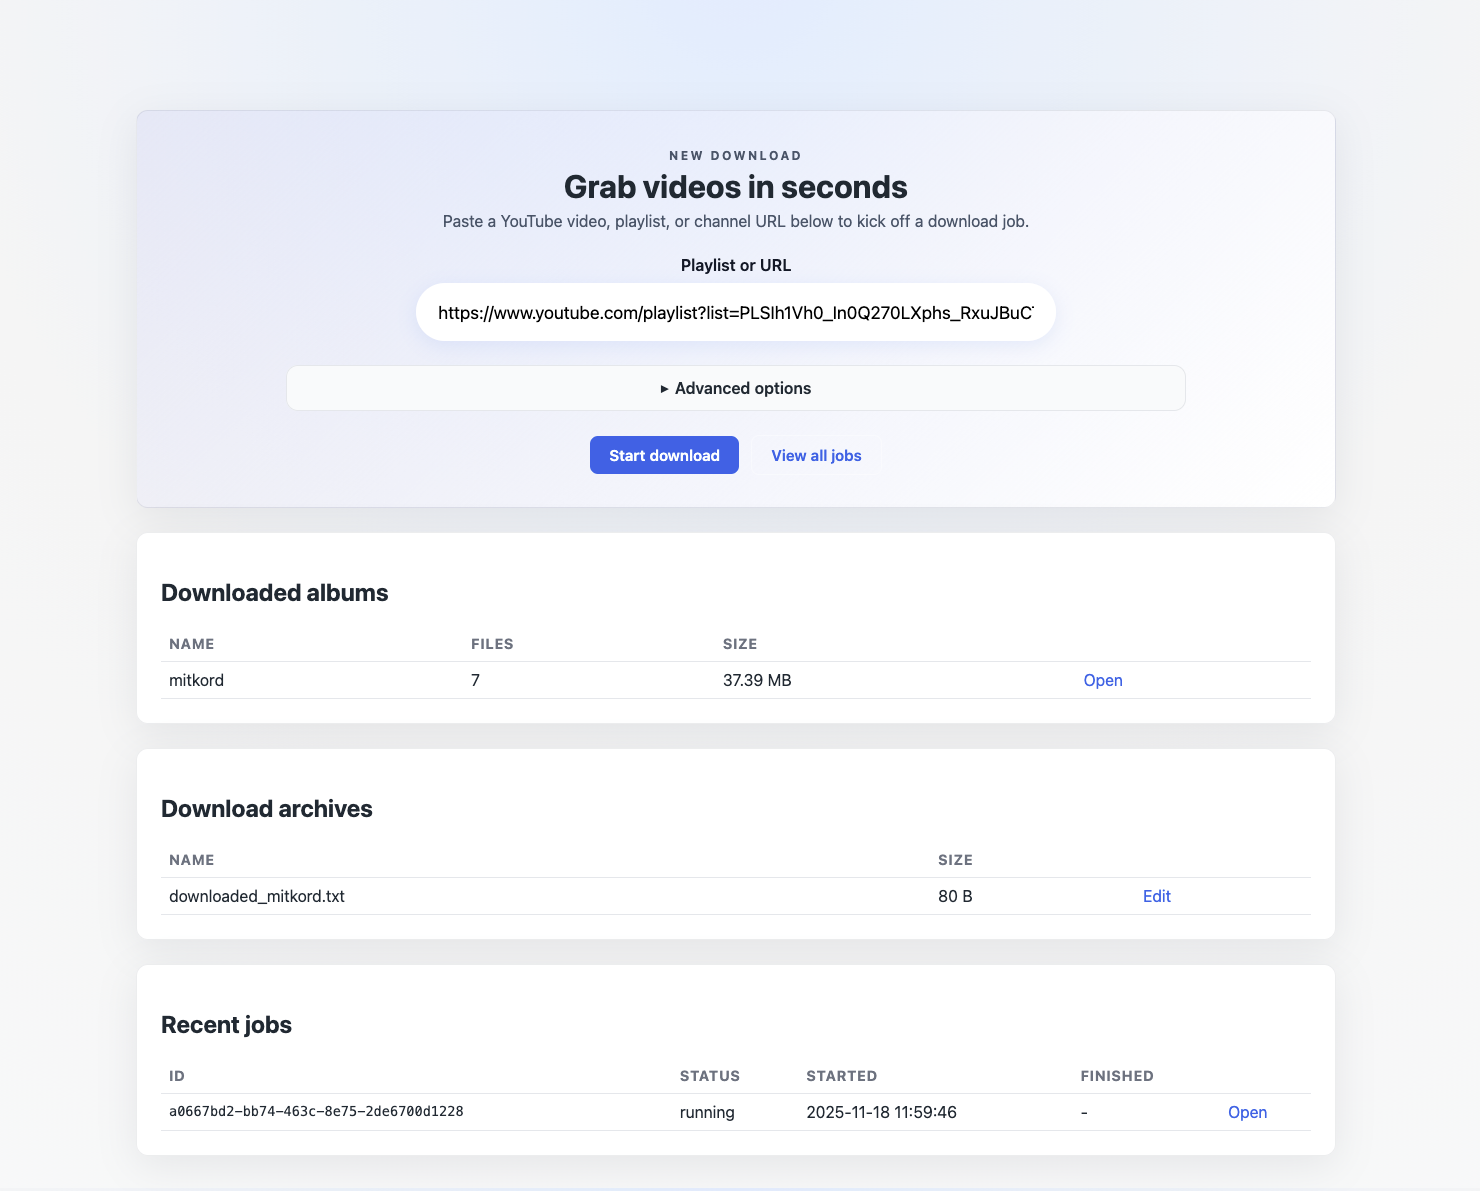
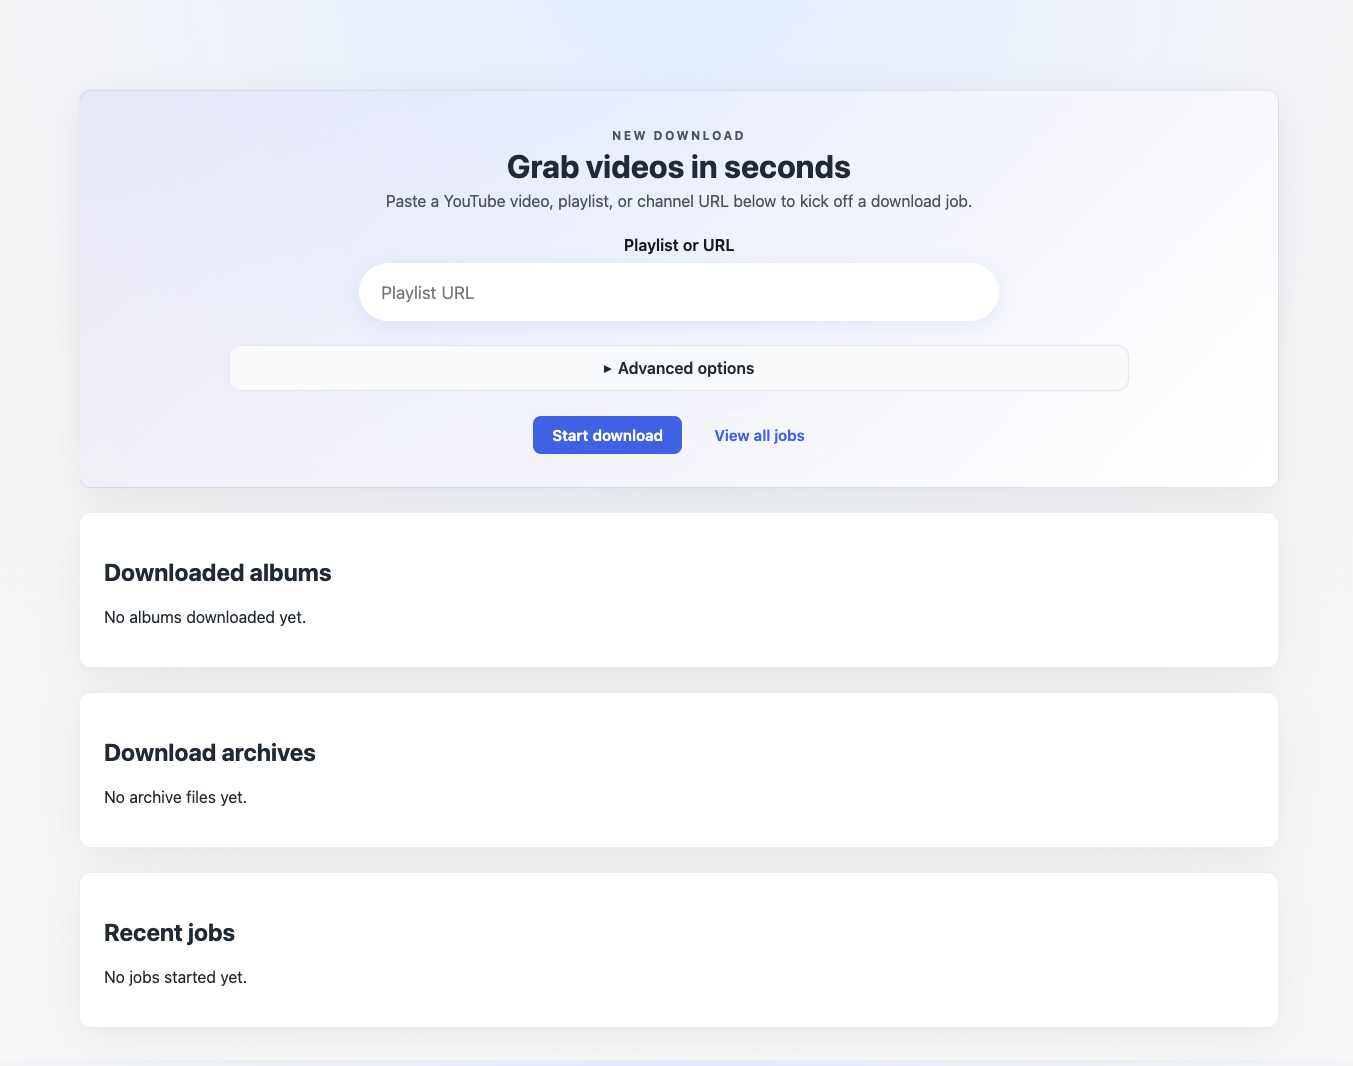
init

diff --git a/templates/home.html b/templates/home.html
@@ -13,7 +13,7 @@
         <div class="primary-url">
             <label>
                 <span>Playlist or URL</span>
-                <input class="primary-url-input" type="url" name="playlist_url" required value="{{ form_defaults.playlist_url }}" placeholder="https://youtube.com/…">
+                <input class="primary-url-input" type="url" name="playlist_url" required value="{{ form_defaults.playlist_url }}" placeholder="Playlist URL">
             </label>
         </div>
         <details class="advanced-settings">
